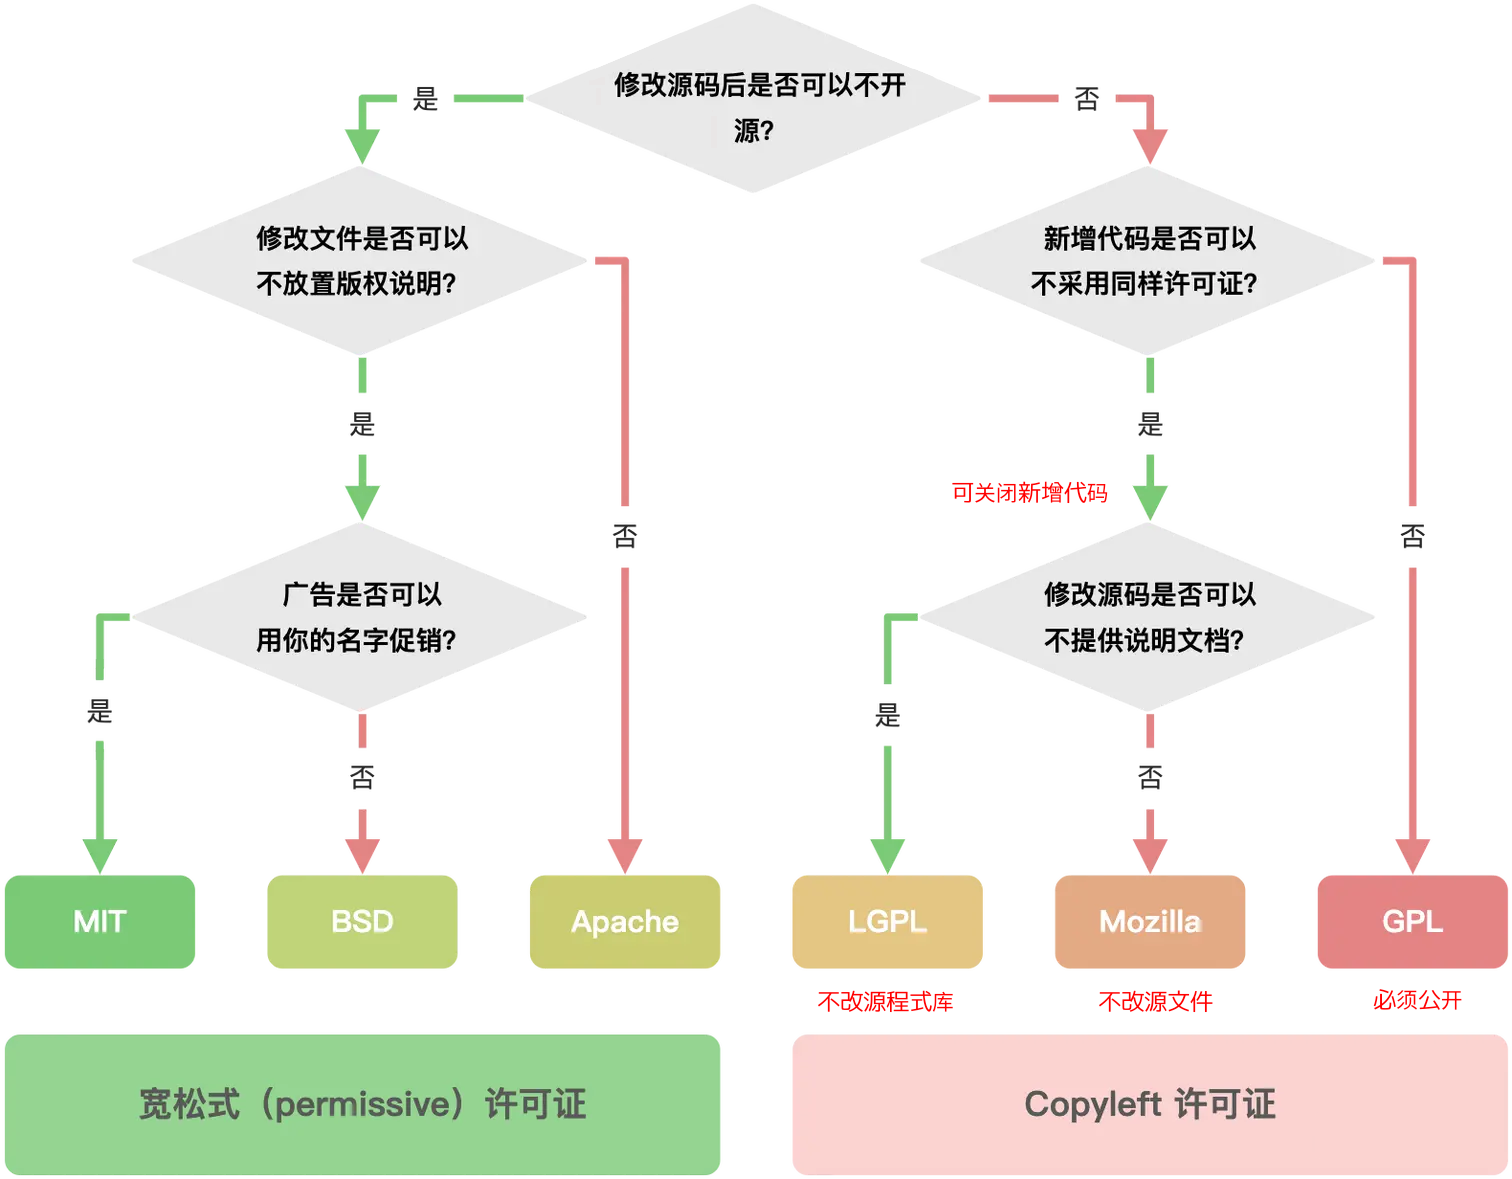
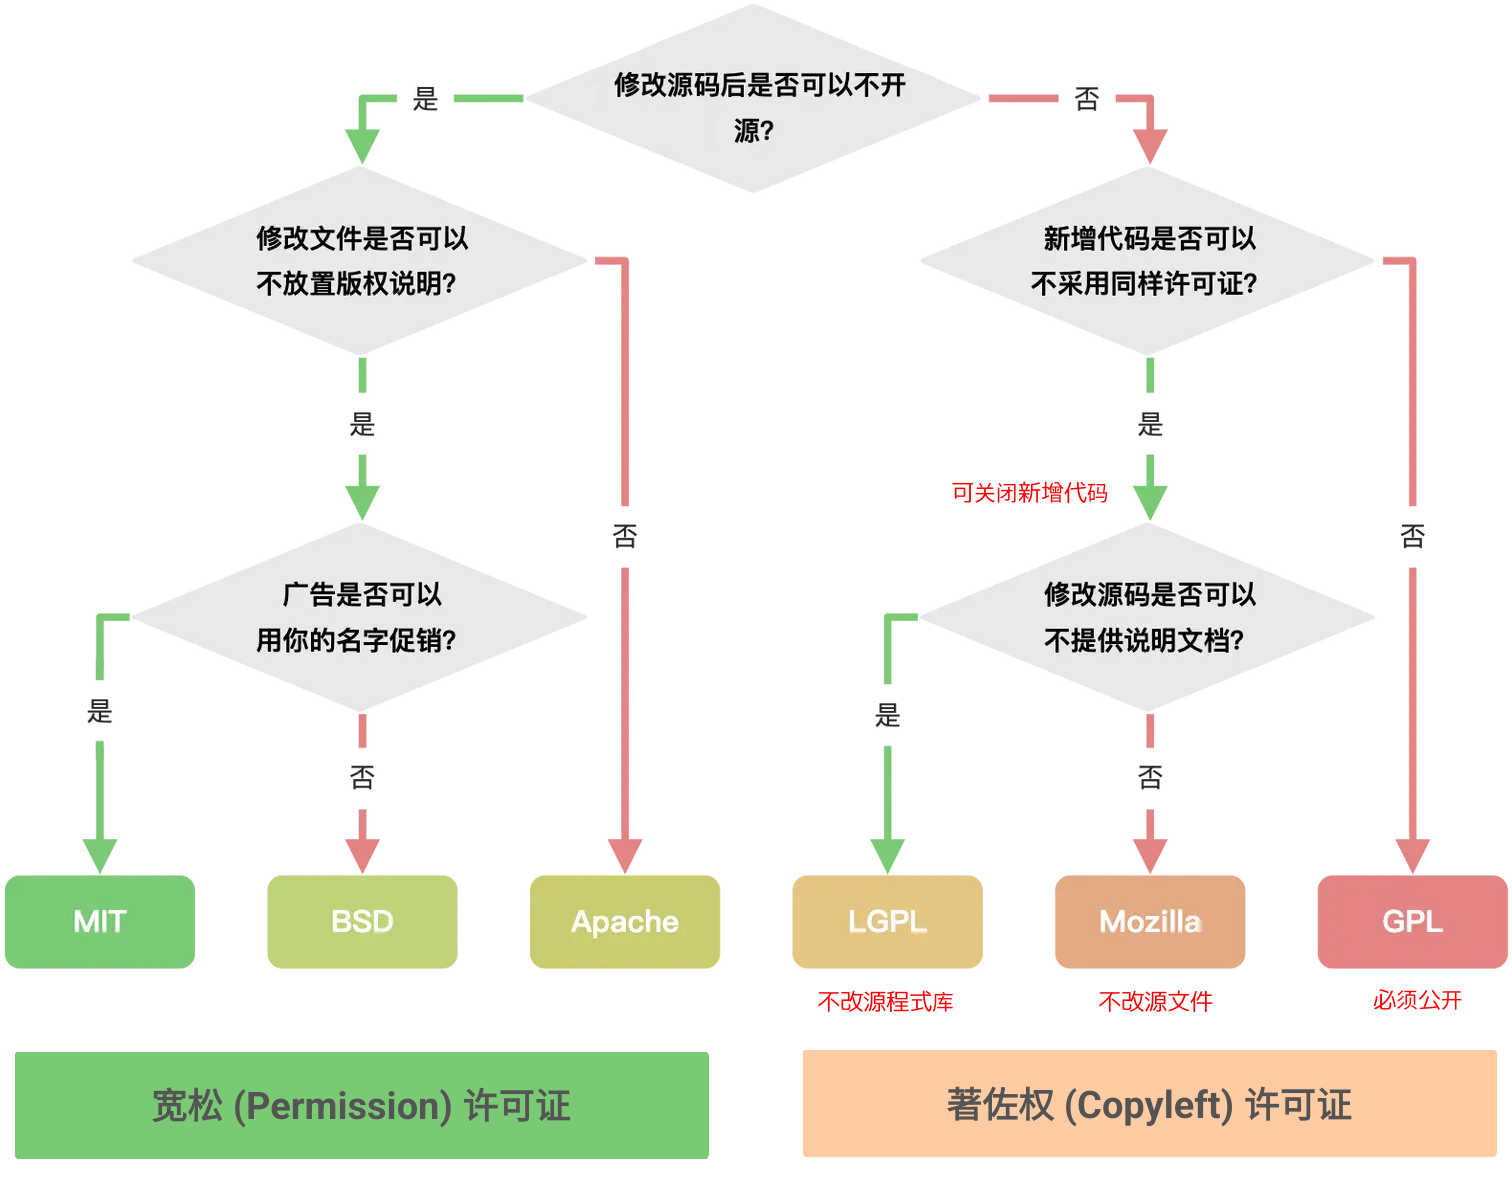
first commit

Changed region(s): [[0.0, 0.855, 1.0, 1.0]]

diff --git a/_posts/2025-08-31-copyright.md b/_posts/2025-08-31-copyright.md
@@ -42,7 +42,7 @@ date: 2025-08-30 1:00:00
 
 ## 常见许可证说明
 
- - **MIT** 许可证，来源于麻省理工大学，MIT 许可证是史上最为简洁和慷慨（permissive）的开源协议之一
+ - **MIT** 许可证，来源于麻省理工大学，MIT 许可证是史上最为简洁和宽松（permissive）的开源协议之一
 
     - 使用限制：没有，可以使用代码做任何的事情
     - 没有担保：不保证代码质量，用户自担风险
